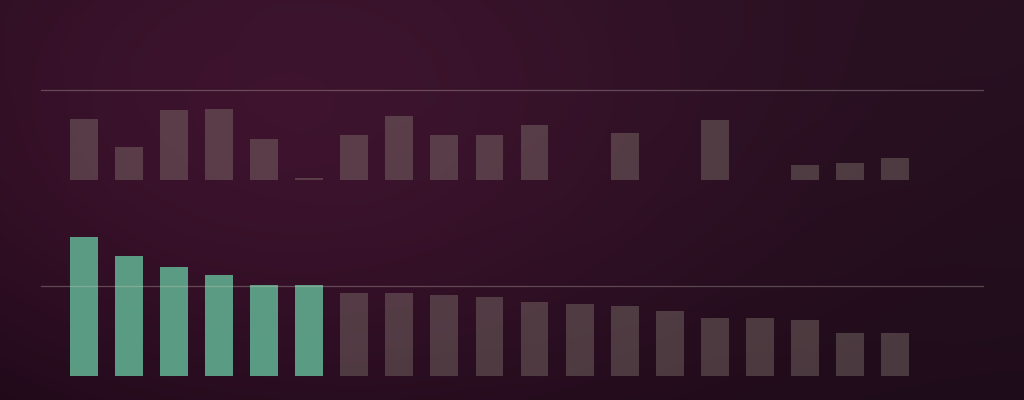
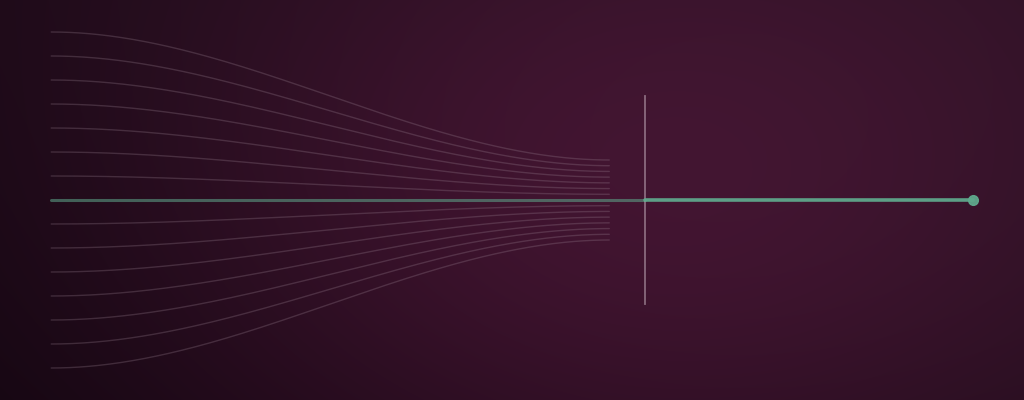
feat: Draw the ML Platform figure as the gate rather than its measurements

diff --git a/scripts/backgrounds/ml_platform.py b/scripts/backgrounds/ml_platform.py
@@ -1,76 +1,68 @@
-"""ML Platform: what the drift monitor says on data whose shift is known.
+"""ML Platform: candidates arriving at a gate, and the one that passes it.
 
-Twenty columns of credit applications, ordered by how far they moved. The upper
-row is the held-out split, drawn from the same population the model was fitted
-on; the lower row is the top quartile of loan amount. The rule is 0.25, the
-conventional threshold above which a population stability index counts as a
-significant shift.
+Every other image in this set states a measured result. This one does not, and the
+reason is that what characterises this project is a behaviour rather than a
+distribution: a candidate is compared against the version in production and is
+refused unless it improves on it, so almost everything stops and one thing
+continues. A plot of the versions registered so far would be a figure of five
+points; the shape of the rule is the more honest subject.
 
-Nothing crosses the rule above. Three columns cross it below, and the first of
-them is the one that was filtered. The measure is logarithmic because the largest
-index is 5.93 and the smallest is zero.
+Fifteen paths converge on the gate. Fourteen end there. The one that passes leaves
+along the axis the whole figure is mirrored about.
 """
 
 from __future__ import annotations
 
 import numpy as np
 
-from palette import DPI, HIT, MUTED, RULE, canvas, ground
+from palette import DPI, HIT, canvas, ground
 
-# Population stability index per column, ordered by the shifted case.
-SAME = [0.0405, 0.0064, 0.0725, 0.0727, 0.0109, 0.0009, 0.0144, 0.0477, 0.0138,
-        0.0138, 0.0263, 0.0002, 0.0159, 0.0005, 0.0370, 0.0005, 0.0021, 0.0023,
-        0.0033, 0.0000]
-SHIFTED = [5.9349, 1.6781, 0.8768, 0.4970, 0.2691, 0.2678, 0.1667, 0.1640, 0.1383,
-           0.1217, 0.0884, 0.0789, 0.0723, 0.0523, 0.0325, 0.0324, 0.0284, 0.0128,
-           0.0122, 0.0000]
+PATHS = 15                    # odd, so one of them is the axis
+ENTRY, GATE, EXIT = 0.05, 0.63, 0.95
+SPREAD = 0.42                 # half the height the paths enter across
+THROAT = 0.10                 # half the height they converge into
+STOP = 0.035                  # gap a refused path leaves before the gate
+MIDDLE = 0.5
 
-SIGNIFICANT = 0.25
-FLOOR = 0.0008           # below this a bar would have no height to draw
-CEILING = 8.0
-
-LEFT, RIGHT = 0.06, 0.94
-BASE_TOP, BASE_BOTTOM = 0.55, 0.06     # the two rows sit on these baselines
-HEIGHT = 0.36
-
-
-def scaled(value: float) -> float:
-    """Log height, since the indices span four orders of magnitude."""
-    value = max(value, FLOOR)
-    span = np.log10(CEILING / FLOOR)
-    return float(np.log10(value / FLOOR) / span)
-
-
-def row(axes, baseline: float, values: list[float], colour_above: str) -> None:
-    step = (RIGHT - LEFT) / len(values)
-    width = step * 0.62
-    for index, value in enumerate(values):
-        x = LEFT + index * step + (step - width) / 2
-        height = scaled(value) * HEIGHT
-        crossed = value >= SIGNIFICANT
-        axes.add_patch(plt_rect(
-            (x, baseline), width, height,
-            colour_above if crossed else MUTED,
-            0.92 if crossed else 0.40,
-        ))
-    rule = baseline + scaled(SIGNIFICANT) * HEIGHT
-    axes.plot([LEFT - 0.02, RIGHT + 0.02], [rule, rule], color=RULE, lw=0.9,
-              alpha=0.30, zorder=4)
-
-
-def plt_rect(xy, width, height, colour, alpha):
-    from matplotlib.patches import Rectangle
-
-    return Rectangle(xy, width, height, facecolor=colour, alpha=alpha,
-                     edgecolor="none", zorder=3)
+REFUSED = "#9c8494"
+PASSED = HIT
 
 
 def main() -> None:
-    background = ground("#120610", "#25101f", "#7d1f52", at=(0.24, 0.34), strength=0.28)
+    background = ground("#120610", "#25101f", "#7d1f52", at=(0.62, 0.5), strength=0.30)
     figure, axes, target = canvas(background, "ml-platform-bg")
 
-    row(axes, BASE_TOP, SAME, HIT)
-    row(axes, BASE_BOTTOM, SHIFTED, HIT)
+    steps = np.linspace(0, 1, 240)
+    # Smoothstep, so a path leaves and arrives horizontally rather than at an angle.
+    eased = steps * steps * (3 - 2 * steps)
+
+    for offset in np.linspace(-1, 1, PATHS):
+        centre = abs(offset) < 1e-9
+        # A refused path stops short of the gate. The one that passes reaches it.
+        finish = GATE if centre else GATE - STOP
+        across = ENTRY + (finish - ENTRY) * steps
+        start = MIDDLE + offset * SPREAD
+        down = start + (MIDDLE + offset * THROAT - start) * eased
+
+        axes.plot(
+            across, down,
+            color=PASSED if centre else REFUSED,
+            lw=2.2 if centre else 1.0,
+            # The candidate arrives no brighter than the others; what it earns is
+            # the far side.
+            alpha=0.55 if centre else 0.28,
+            solid_capstyle="round",
+            zorder=4 if centre else 2,
+        )
+
+    # The gate itself: the one place every path has to reach the same conclusion.
+    axes.plot([GATE, GATE], [MIDDLE - THROAT - 0.16, MIDDLE + THROAT + 0.16],
+              color="#efe2ea", lw=1.3, alpha=0.42, zorder=5)
+
+    # What passes it continues, and nothing else does.
+    axes.plot([GATE, EXIT], [MIDDLE, MIDDLE], color=PASSED, lw=2.6, alpha=0.95,
+              solid_capstyle="round", zorder=6)
+    axes.plot(EXIT, MIDDLE, "o", ms=7.0, color=PASSED, alpha=0.95, zorder=7)
 
     figure.savefig(target, dpi=DPI, facecolor="#120610")
     print(target)

diff --git a/scripts/backgrounds/README.md b/scripts/backgrounds/README.md
@@ -5,6 +5,10 @@ shape of one measured result from that project, with no text, no axes and no
 legend. A reader who knows the case study recognises the figure; a reader who does
 not sees a dark card.
 
+One image departs from that, and says so where it is drawn. What characterises the
+platform is a behaviour rather than a distribution, and the versions it has judged
+so far would plot as five points.
+
 The set shares a visual language, which `palette.py` holds: one diagonal gradient
 with a soft light behind the subject, a ground colour per project, and two accents
 that never change. Green is what the project set out to catch and rose is the cost
@@ -19,6 +23,9 @@ python fraud_stream.py
 python energy_platform.py
 python forecasting_dash.py
 python ml_platform.py
+python bb84.py
+python credit_risk.py
+python nlp_irony.py
 ```
 
 Each script writes into `public/images/projects/`, resolved from its own location,
@@ -31,7 +38,10 @@ and prints the path it wrote.
 | `research-copilot-bg.png` | Ten fused candidates entering on the left and leaving in the order the cross-encoder gives them, with one promoted from ninth to first and one demoted from second to ninth |
 | `fraud-stream-bg.png` | Recall on each of the three fraud patterns, from the transaction stream alone against the same detector given features derived from resolved disputes. The middle rail is the finding: a compromised terminal spends ordinary amounts, so only the late labels reach it |
 | `energy-platform-bg.png` | The partition grid, six series by 129 months, with the 582 cells that carry a request against the 192 that are empty because a series had not started. The step is where the storage the free tier allows stops paying for a decade of the per-plant grain |
-| `ml-platform-bg.png` | Twenty columns of credit applications ordered by how far they moved, over the held-out split and over the top quartile of loan amount, on a log scale with the 0.25 rule drawn. Nothing crosses it above; six columns cross it below, and the first is the one that was filtered |
+| `ml-platform-bg.png` | Fifteen candidates converging on a gate. Fourteen stop short of it; the one that passes brightens and leaves along the axis the figure is mirrored about. The one figure here that is a diagram rather than a plot |
+| `bb84-bg.png` | Eleven positions alternating between the two measurement bases, with a filled centre every third one, where both sides chose the same basis and the bit survives into the sifted key |
+| `credit-risk-bg.png` | The distribution of predicted default probability, cut at the operating point the cost sweep chose: approved to the left of the rule, rejected to the right |
+| `nlp-irony-bg.png` | The cumulative distribution of the ironic probability for each true class. The gap between the curves at a given score is the separation any threshold has to work with |
 | `forecasting-bg.png` | Mean absolute error of four model families on the daily spot price, fitted with an expanding window and then over the most recent three years, on a log scale. Three lines are flat and one falls into them, which is the finding: capping the window fixed one model and moved every MASE |
 
 The recall figures are the ones the case study reports, held in the script itself.
@@ -39,13 +49,24 @@ The recall figures are the ones the case study reports, held in the script itsel
 score distribution of a single held-out day, which an earlier draft drew and which
 the evaluation still refers to.
 
-## Images without a script
+## The three redraws
 
-`bb84-bg.png`, `credit-risk-bg.png` and `nlp-irony-bg.png` were generated before
-this directory existed, in temporary working directories that no longer hold
-them. The images are in the repository and the code that made them is not.
+`bb84-bg.png`, `credit-risk-bg.png` and `nlp-irony-bg.png` were first made before
+this directory existed, in temporary working directories that no longer hold the
+code. Their scripts here are redraws: the parameters were read back off the
+committed images rather than recovered, so the output differs from what they
+replace in small ways.
 
-Reproducing one means writing a new script and accepting that its output will
-differ from the committed image in small ways, so it is a redraw rather than a
-recovery. Until that happens, this table is the record of which images can be
-regenerated and which cannot.
+| Image | Mean difference from the image it replaces | Pixels differing by more than 30 |
+|---|---:|---:|
+| `bb84-bg.png` | 6.3 of 255 | 1.0% |
+| `credit-risk-bg.png` | 7.3 of 255 | 0.6% |
+| `nlp-irony-bg.png` | 10.0 of 255 | 3.0% |
+
+The last is the highest because the figure is two thin lines, where a small offset
+shows in every pixel along them.
+
+Two of the three hold numbers rather than measuring them, and say so where they are
+drawn. The runs that produced those numbers are gone: for credit risk, the current
+artifact's distribution over the same dataset does not reproduce the histogram, and
+its closest subset correlates at 0.87.
